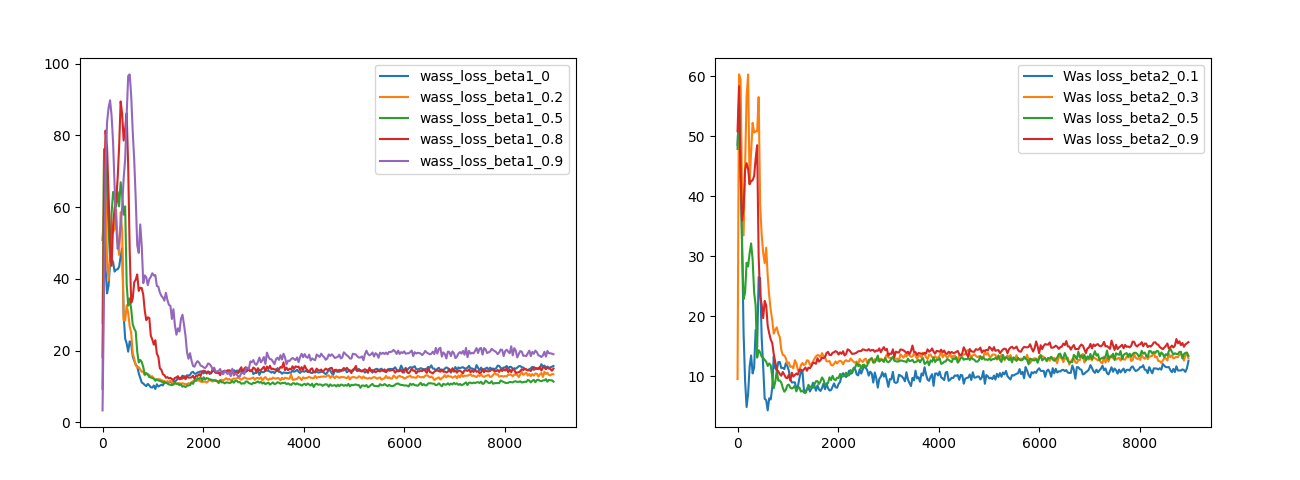
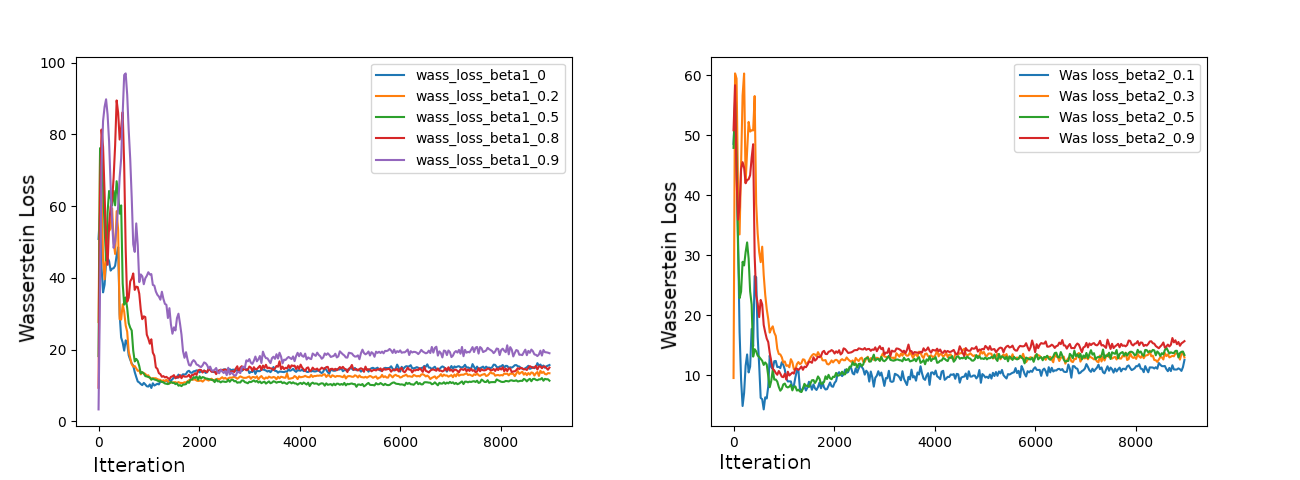
Add captions to figures

diff --git a/blog.md b/blog.md
@@ -74,12 +74,13 @@ We trained the GAN with beta1 values [0, 0.2, 0.5, 0.8, 0.9] keeping beta2 fixed
 Figure 6 depicts the Discriminator loss for the real and generated samples for each of the beta values. The graph shows the average of every thirty samples for clarity, since the original losses are too noisy to make a clear comparison.
 
 ![Figure 6](figures/Graphs_disc_loss_real_fake_hp_tuning.png?raw=true)
-*Figure 6. The Discriminator loss for the real and generated images. *
+*Figure 6. The Discriminator loss for the real and generated images. There does not seem to be a strong deviation in results due to differences in beta1 (left). 
+For beta2, a higher value seems preferable (right)*
 
 Figure 7 shows the Wasserstein loss of the network for the different beta1 and beta2 values. The graphs suggest that especially for beta2 lower values might be better, seeing as they result in a lower loss. However, since the network was only trained for 10 epochs it might be that the higher values of beta2 result in better performance after longer training runs. 
 
-![Figure 6](figures/beta12_wass_Loss_Graph.png?raw=true)
-*Figure 7.* 
+![Figure 6](figures/beta12_wass_Loss_Graph.png?)
+*Figure 7. The Wasserstein loss for the beta1 values (left) and beta2 values (right)* 
 ## References
 
 [1]  S. Kench and S. J. Cooper, Generating three-dimensional structures from a
